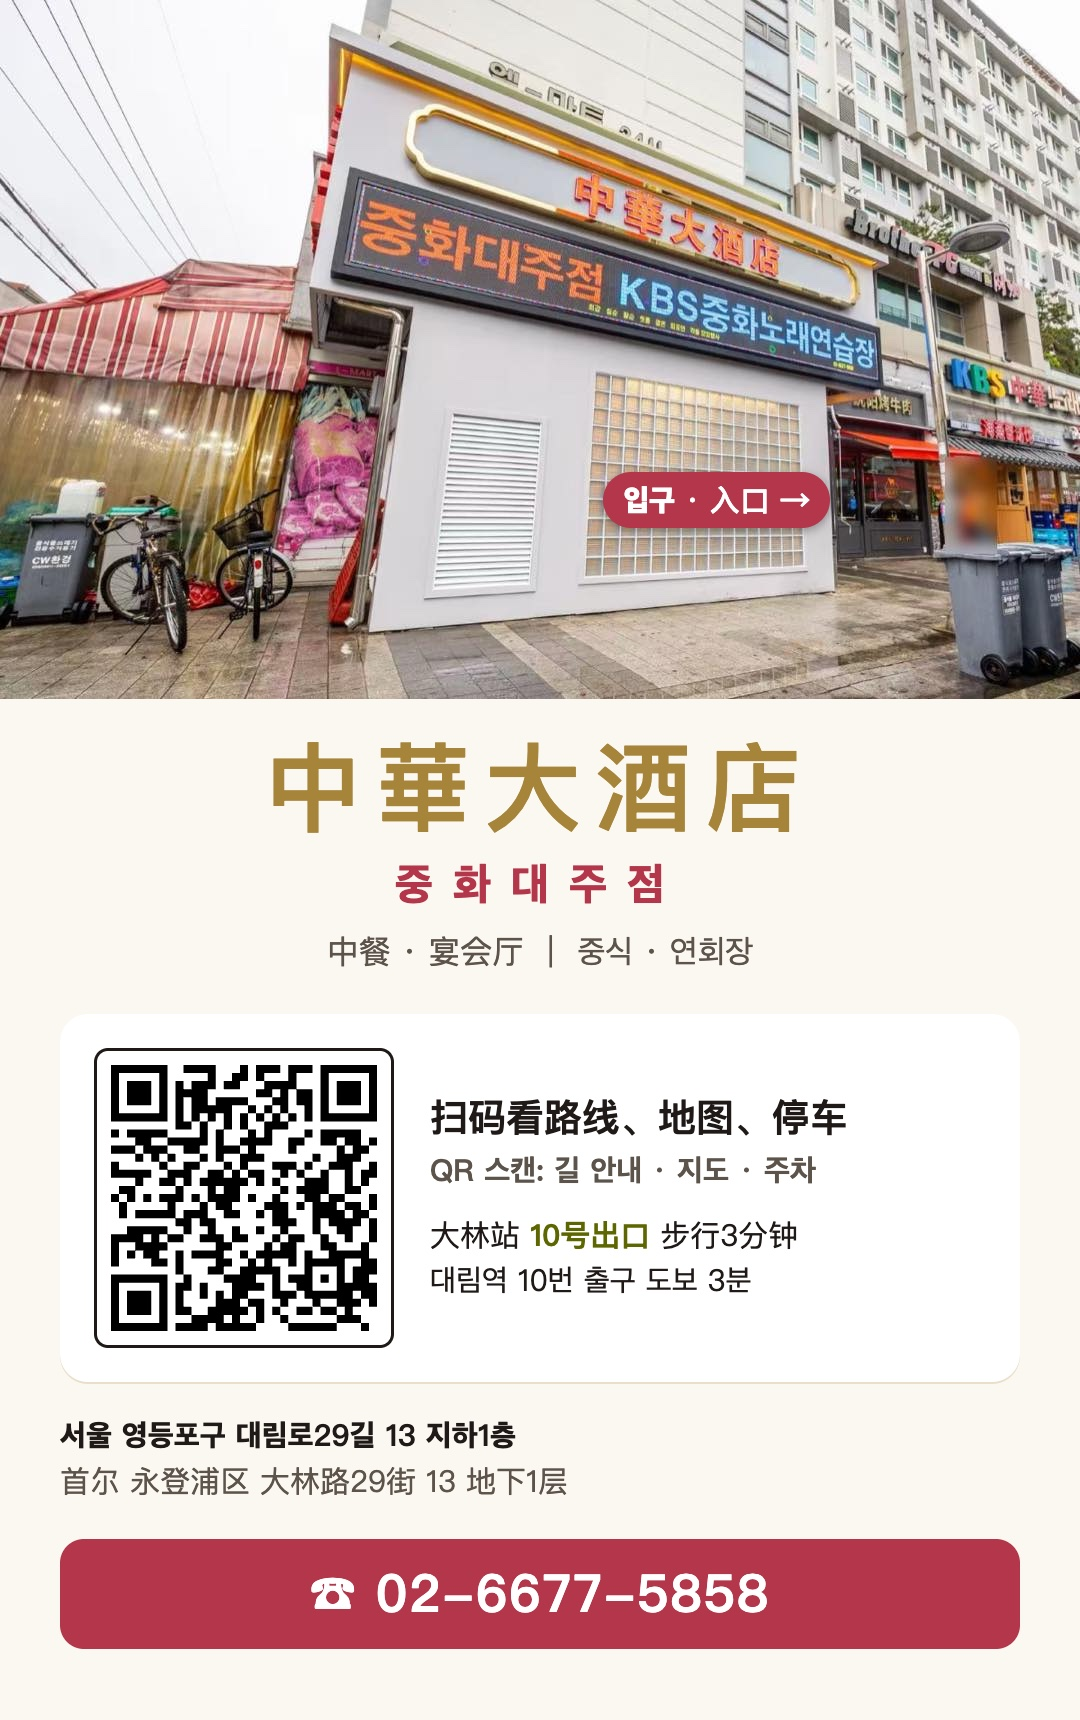
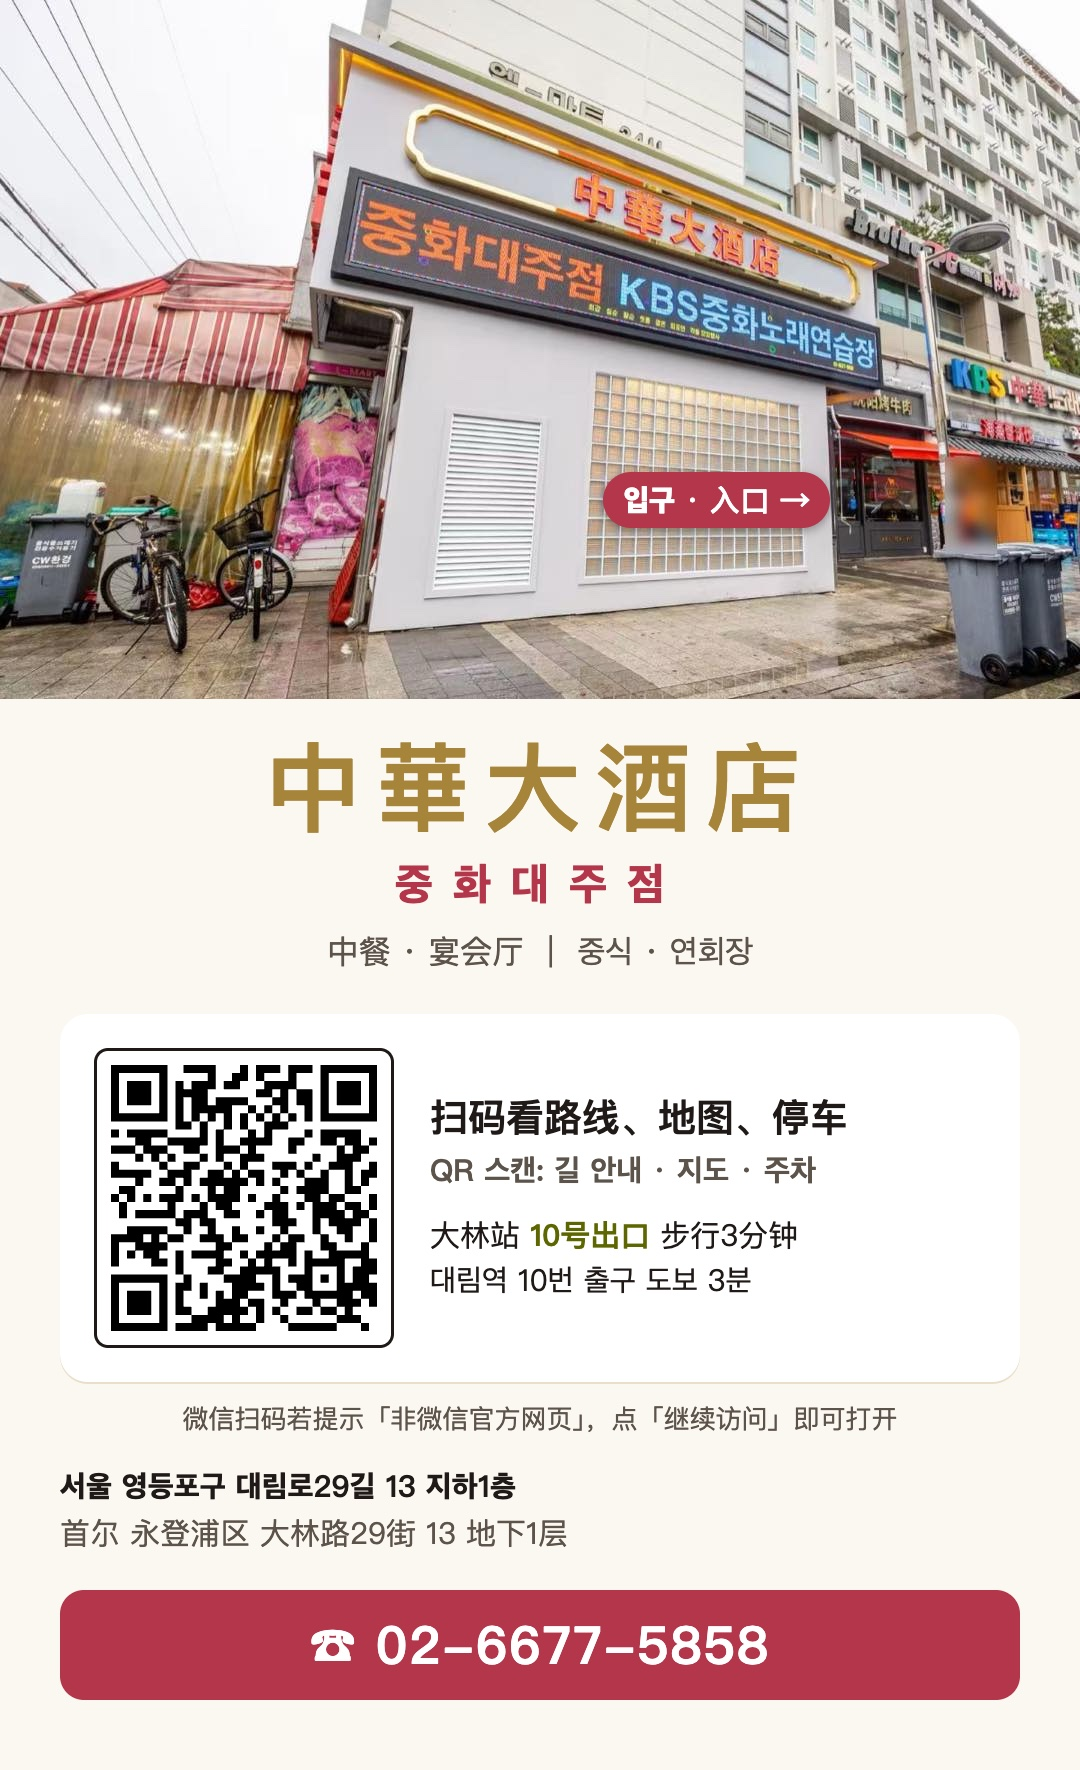
微信分享图和分享说明：提示客人在微信里点「继续访问」

diff --git a/index.html b/index.html
@@ -12,12 +12,12 @@
 <meta property="og:site_name" content="中華大酒店 · 중화대주점">
 <meta property="og:title" content="中華大酒店 · 중화대주점">
 <meta property="og:description" content="대림역 10번 출구 도보 3분 · 중식 연회장 · ☎ 02-6677-5858 | 大林站10号出口步行3分钟 · 中餐宴会厅">
-<meta property="og:image" content="https://xfeem02-beep.github.io/zhonghua-card/og.jpg?v=20261124b">
+<meta property="og:image" content="https://xfeem02-beep.github.io/zhonghua-card/og.jpg?v=20261124c">
 <meta property="og:image:width" content="1200">
 <meta property="og:image:height" content="600">
 <meta property="og:locale" content="ko_KR">
 <meta name="twitter:card" content="summary_large_image">
-<link rel="apple-touch-icon" href="icon.png?v=20261124b">
+<link rel="apple-touch-icon" href="icon.png?v=20261124c">
 <style>
 /* 中華大酒店 电子名片（11-24 改版）
    打开先看到：选语言 → 门口牌匾 → 「坐地铁来 / 开车来」两条路，点进去看详细走法
@@ -362,7 +362,7 @@ a.copy{display:flex;align-items:center;justify-content:center}
     zh: { sub: '中餐 · 宴会厅', ask: '您怎么来？', waySw: '坐地铁来', waySwSub: '大林站 10 号出口 · 步行 3～5 分钟', wayCar: '开车来', wayCarSub: '导航到店 · 附近停车场', back: '返回',
       call: '电话预约', mobile: '手机', addrT: '地址', addr: '首尔特别市 永登浦区 大林路29街 13（大林洞 717）地下 1 层', near: '地铁大林站 10 号出口附近（2、7 号线）', naver: 'Naver 地图', kakao: 'Kakao 地图', copyAddr: '复制地址', driver: '给出租车司机看',
       contactT: '微信 · 传真', wechat: '微信', fax: '传真', wechatTip: '复制微信号后，在微信「添加朋友」里粘贴搜索', bankT: '银行转账', bankName: '新韩银行 신한은행', holder: '户名', copy: '复制', copied: '已复制', copyFail: '复制不了，请长按文字复制',
-      hallT: '宴会厅', hallCap: '店内宴会厅', shareT: '发给朋友', posterBtn: '微信分享图', copyLink: '复制链接', linkCopied: '链接已复制，去聊天里粘贴', shareTip: '发 KakaoTalk：直接粘贴链接，会自动出带图片的卡片。发微信：打开「微信分享图」，长按图片发给朋友，对方扫图上的二维码就能打开本页。', foot: '首尔 · 大林站',
+      hallT: '宴会厅', hallCap: '店内宴会厅', shareT: '发给朋友', posterBtn: '微信分享图', copyLink: '复制链接', linkCopied: '链接已复制，去聊天里粘贴', shareTip: '发 KakaoTalk：直接粘贴链接，会自动出带图片的卡片。发微信：打开「微信分享图」，长按图片发给朋友，对方扫图上的二维码就能打开本页（微信会先提示「非微信官方网页」，点「继续访问」即可）。', foot: '首尔 · 大林站',
       swSumT: '大林站 10 号出口', swSumM: '步行 3～5 分钟 · 约 300 米', zoomHint: '点图放大', mapCap: '图上 ①②③④ 就是下面的四步；蓝线是要走的路。', mapWalkT: '大林站 10 号出口到中華大酒店的步行路线图', mapParkT: '中華大酒店附近停车场图',
       s1: '出 10 号出口，往左转，沿大路（도림로）直走约 100 米', s2: '走到「巴黎贝甜（파리바게뜨）」，左转进小路（도림로41길）', s3: '直走约 140 米，右手边会经过 GS25 便利店', s4: '走过右手边的「沈阳烤牛肉」，紧挨着的白色门楼「中華大酒店」就是入口：金色门框玻璃门，进门下到地下 1 层。看到街角粉色手机店就是走过头了',
       wxMap: '在微信里，地图 App 可能打不开：照着上面这张图走就能到；要用导航，点右上角「···」→「在浏览器打开」。', walkBtn: 'Naver 步行导航', walkKakao: 'Kakao 地图', line2Tip: '2 号线、7 号线都停大林站，出站时找「10 号出口」。',
@@ -379,7 +379,7 @@ a.copy{display:flex;align-items:center;justify-content:center}
     ko: { sub: '중식 · 연회장', ask: '어떻게 오세요?', waySw: '지하철로 오기', waySwSub: '대림역 10번 출구 · 도보 3~5분', wayCar: '자동차로 오기', wayCarSub: '내비게이션 · 주변 주차장', back: '뒤로',
       call: '전화 예약', mobile: '휴대폰', addrT: '주소', addr: '서울특별시 영등포구 대림로29길 13 (대림동 717), 지하 1층', near: '대림역 10번 출구 인근 (2·7호선)', naver: '네이버 지도', kakao: '카카오맵', copyAddr: '주소 복사', driver: '기사님께 보여주기',
       contactT: '위챗 · 팩스', wechat: '위챗 WeChat', fax: '팩스', wechatTip: '아이디를 복사해 위챗 「친구 추가」에서 검색하세요', bankT: '계좌 이체', bankName: '신한은행', holder: '예금주', copy: '복사', copied: '복사됐어요', copyFail: '복사가 안 돼요. 길게 눌러 복사해 주세요',
-      hallT: '연회장', hallCap: '매장 연회장', shareT: '친구에게 보내기', posterBtn: '위챗용 공유 이미지', copyLink: '링크 복사', linkCopied: '링크를 복사했어요. 채팅방에 붙여 넣으세요', shareTip: '카카오톡: 링크를 붙여 넣으면 사진이 있는 미리보기 카드가 나와요. 위챗: 「위챗용 공유 이미지」를 길게 눌러 보내면, 받는 분이 QR코드로 이 페이지를 열 수 있어요.', foot: '서울 · 대림역',
+      hallT: '연회장', hallCap: '매장 연회장', shareT: '친구에게 보내기', posterBtn: '위챗용 공유 이미지', copyLink: '링크 복사', linkCopied: '링크를 복사했어요. 채팅방에 붙여 넣으세요', shareTip: '카카오톡: 링크를 붙여 넣으면 사진이 있는 미리보기 카드가 나와요. 위챗: 「위챗용 공유 이미지」를 길게 눌러 보내면, 받는 분이 QR코드로 이 페이지를 열 수 있어요. (위챗이 「공식 Weixin 페이지가 아닙니다」라고 먼저 안내하면 「계속」을 누르면 돼요.)', foot: '서울 · 대림역',
       swSumT: '대림역 10번 출구', swSumM: '도보 3~5분 · 약 300m', zoomHint: '눌러서 크게 보기', mapCap: '지도의 ①②③④가 아래 네 단계예요. 파란 선이 걷는 길이에요.', mapWalkT: '대림역 10번 출구에서 중화대주점까지 도보 길 안내도', mapParkT: '중화대주점 주변 주차장 지도',
       s1: '10번 출구로 나와 왼쪽으로 돌아, 큰길(도림로)을 따라 약 100m 직진', s2: '「파리바게뜨」에서 왼쪽 골목(도림로41길)으로 들어가세요', s3: '약 140m 직진하면 오른쪽에 GS25 편의점이 보여요', s4: '오른쪽 「沈阳烤牛肉」을 지나면 바로 옆 흰색 「中華大酒店」 건물이 입구예요. 금색 테두리 유리문으로 들어와 지하 1층으로 내려오세요. 모퉁이 분홍색 휴대폰 매장이 나오면 지나친 거예요',
       wxMap: '위챗 안에서는 지도 앱이 안 열릴 수 있어요. 위 지도를 보고 오시거나, 오른쪽 위 「···」 → 「브라우저에서 열기」를 눌러 주세요.', walkBtn: '네이버 도보 길찾기', walkKakao: '카카오맵', line2Tip: '2호선·7호선 모두 대림역에 서요. 나갈 때 「10번 출구」로 나오세요.',
@@ -396,7 +396,7 @@ a.copy{display:flex;align-items:center;justify-content:center}
     en: { sub: 'Chinese Restaurant · Banquet Hall', ask: 'How are you coming?', waySw: 'By subway', waySwSub: 'Daerim Stn Exit 10 · 3–5 min walk', wayCar: 'By car', wayCarSub: 'Navigation · nearby parking', back: 'Back',
       call: 'Call to book', mobile: 'Mobile', addrT: 'Address', addr: 'B1, 13 Daerim-ro 29-gil (717 Daerim-dong), Yeongdeungpo-gu, Seoul', near: 'Near Daerim Station Exit 10 (Lines 2 & 7)', naver: 'Naver Map', kakao: 'Kakao Map', copyAddr: 'Copy address', driver: 'Show to taxi driver',
       contactT: 'WeChat · Fax', wechat: 'WeChat', fax: 'Fax', wechatTip: 'Copy an ID, then paste it in WeChat › Add Contacts.', bankT: 'Bank transfer', bankName: 'Shinhan Bank', holder: 'Account holder', copy: 'Copy', copied: 'Copied', copyFail: 'Could not copy — press and hold the text to copy',
-      hallT: 'Banquet hall', hallCap: 'Our banquet hall', shareT: 'Send to a friend', posterBtn: 'Image for WeChat', copyLink: 'Copy link', linkCopied: 'Link copied — paste it in a chat', shareTip: 'KakaoTalk: paste the link and a preview card with a photo appears. WeChat: open “Image for WeChat”, press and hold to send; your friend scans the QR code to open this page.', foot: 'Seoul · Daerim Station',
+      hallT: 'Banquet hall', hallCap: 'Our banquet hall', shareT: 'Send to a friend', posterBtn: 'Image for WeChat', copyLink: 'Copy link', linkCopied: 'Link copied — paste it in a chat', shareTip: 'KakaoTalk: paste the link and a preview card with a photo appears. WeChat: open “Image for WeChat”, press and hold to send; your friend scans the QR code to open this page. (WeChat first says it is “not an official Weixin page” — just tap Continue.)', foot: 'Seoul · Daerim Station',
       swSumT: 'Daerim Station Exit 10', swSumM: '3–5 min walk · about 300 m', zoomHint: 'Tap to enlarge', mapCap: '①②③④ on the map are the four steps below. The blue line is your walk.', mapWalkT: 'Walking map from Daerim Station Exit 10 to Junghwa Daejujeom', mapParkT: 'Parking near Junghwa Daejujeom',
       s1: 'Leave Exit 10, turn left and walk along the main road (Dorim-ro) for about 100 m.', s2: 'At Paris Baguette, turn left into the side street (Dorim-ro 41-gil).', s3: 'Go straight about 140 m; you pass a GS25 store on your right.', s4: 'Right after “沈阳烤牛肉” on your right is the white “中華大酒店” gate — enter the gold-framed glass door and go down to B1. If you reach the pink phone shop on the corner, you went too far.',
       wxMap: 'Inside WeChat, map apps may not open. Follow the map above, or tap ··· (top right) › Open in browser.', walkBtn: 'Naver walking route', walkKakao: 'Kakao Map', line2Tip: 'Lines 2 and 7 both stop at Daerim. Use Exit 10.',
@@ -413,7 +413,7 @@ a.copy{display:flex;align-items:center;justify-content:center}
     ja: { sub: '中華料理・宴会場', ask: 'どうやって来られますか？', waySw: '地下鉄で', waySwSub: '大林駅10番出口・徒歩3〜5分', wayCar: 'お車で', wayCarSub: 'ナビ・近くの駐車場', back: '戻る',
       call: '電話予約', mobile: '携帯', addrT: '住所', addr: 'ソウル特別市 永登浦区 大林路29キル 13（大林洞717）地下1階', near: '大林駅10番出口付近（2・7号線）', naver: 'NAVER地図', kakao: 'カカオマップ', copyAddr: '住所をコピー', driver: '運転手に見せる',
       contactT: 'WeChat・FAX', wechat: 'WeChat', fax: 'FAX', wechatTip: 'IDをコピーして、WeChatの「友だち追加」で検索してください', bankT: '銀行振込', bankName: '新韓銀行 신한은행', holder: '口座名義', copy: 'コピー', copied: 'コピーしました', copyFail: 'コピーできません。長押しでコピーしてください',
-      hallT: '宴会場', hallCap: '店内の宴会場', shareT: '友だちに送る', posterBtn: 'WeChat用の画像', copyLink: 'リンクをコピー', linkCopied: 'リンクをコピーしました。トークに貼り付けてください', shareTip: 'カカオトーク：リンクを貼ると写真付きのカードが表示されます。WeChat：「WeChat用の画像」を長押しして送ると、相手はQRコードでこのページを開けます。', foot: 'ソウル・大林駅',
+      hallT: '宴会場', hallCap: '店内の宴会場', shareT: '友だちに送る', posterBtn: 'WeChat用の画像', copyLink: 'リンクをコピー', linkCopied: 'リンクをコピーしました。トークに貼り付けてください', shareTip: 'カカオトーク：リンクを貼ると写真付きのカードが表示されます。WeChat：「WeChat用の画像」を長押しして送ると、相手はQRコードでこのページを開けます。（WeChatで「公式ページではありません」と表示されたら、続行を押してください。）', foot: 'ソウル・大林駅',
       swSumT: '大林駅 10番出口', swSumM: '徒歩3〜5分・約300m', zoomHint: 'タップで拡大', mapCap: '地図の①②③④が下の4つの手順です。青い線が歩く道です。', mapWalkT: '大林駅10番出口から中華大酒店までの徒歩ルート図', mapParkT: '中華大酒店周辺の駐車場マップ',
       s1: '10番出口を出て左へ、大通り（도림로）沿いに約100m進みます', s2: '「パリバゲット（파리바게뜨）」の角を左に曲がり、脇道（도림로41길）に入ります', s3: '約140mまっすぐ。右手にGS25があります', s4: '右手の「沈阳烤牛肉」を過ぎてすぐ、白い門「中華大酒店」が入口です。金色の枠のガラス扉から地下1階へ。角のピンクの携帯ショップまで来たら行き過ぎです',
       wxMap: 'WeChatの中では地図アプリが開かないことがあります。上の地図を見て来られるか、右上の「···」→「ブラウザで開く」を押してください。', walkBtn: 'NAVER 徒歩ルート', walkKakao: 'カカオマップ', line2Tip: '2号線・7号線とも大林駅に停まります。「10番出口」から出てください。',
@@ -594,7 +594,7 @@ a.copy{display:flex;align-items:center;justify-content:center}
         var img = document.createElement('img');
         img.alt = '中華大酒店'; img.width = 1080; img.height = 1720;
         img.onerror = function () { toast(T[cur].posterFail); };
-        img.src = 'poster.jpg?v=20261124b';
+        img.src = 'poster.jpg?v=20261124c';
         box.appendChild(img);
       }
       return openSheet('poster');
